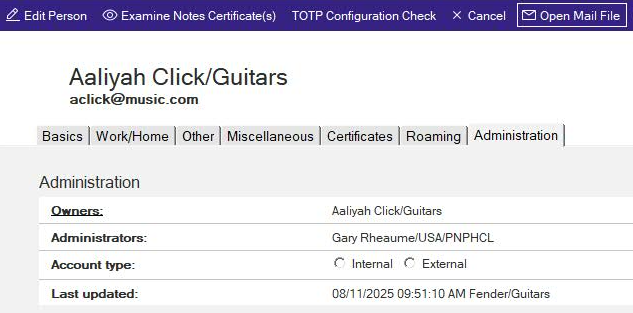
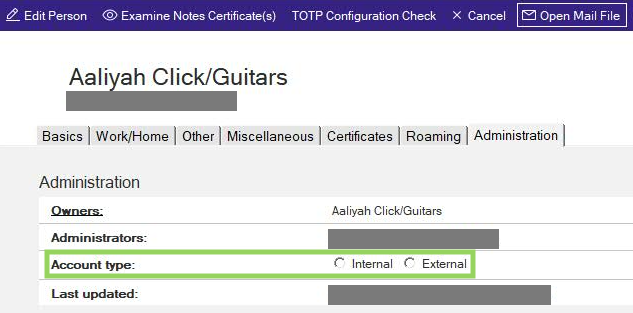
Fixing typo and reference

Changed region(s): [[0.06, 0.7188, 0.8705, 0.9776], [0.09, 0.2875, 0.3902, 0.3738]]

diff --git a/docs/licensecalc.md b/docs/licensecalc.md
@@ -114,7 +114,7 @@ On the Basics tab of the Directory Assistance document, change the "Directory co
 This field was introduced in the Directory Assistance template (da.ntf) of version 14.5. The Template is  compatible with HCL Domino version 12.0.x and later.
 
 For more information see:
-https://help.hcl-software.com/domino/14.5.0/admin/admn_dla_first_steps.html
+[HCL License Dashboard: Background and first steps](https://help.hcl-software.com/domino/14.5.0/admin/admn_dla_first_steps.html)
 
 ### Person Document
 
@@ -156,6 +156,4 @@ While Not(PersonDoc Is Nothing)
 Wend
 ```
 
-For more information see:
-https://help.hcl-software.com/domino/14.5.0/admin/othr_persondocuments_r.html
- 
+For more information see: [Understanding the Person document](https://help.hcl-software.com/domino/14.5.0/admin/othr_persondocuments_r.html)
